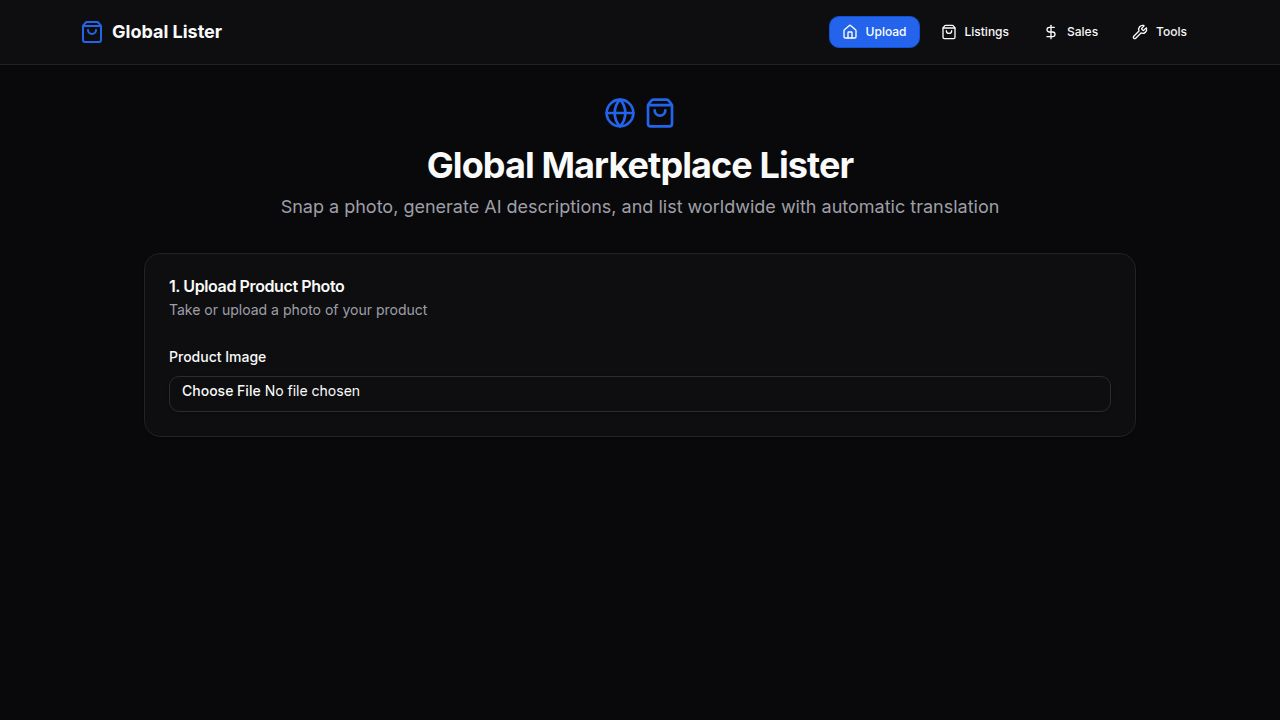
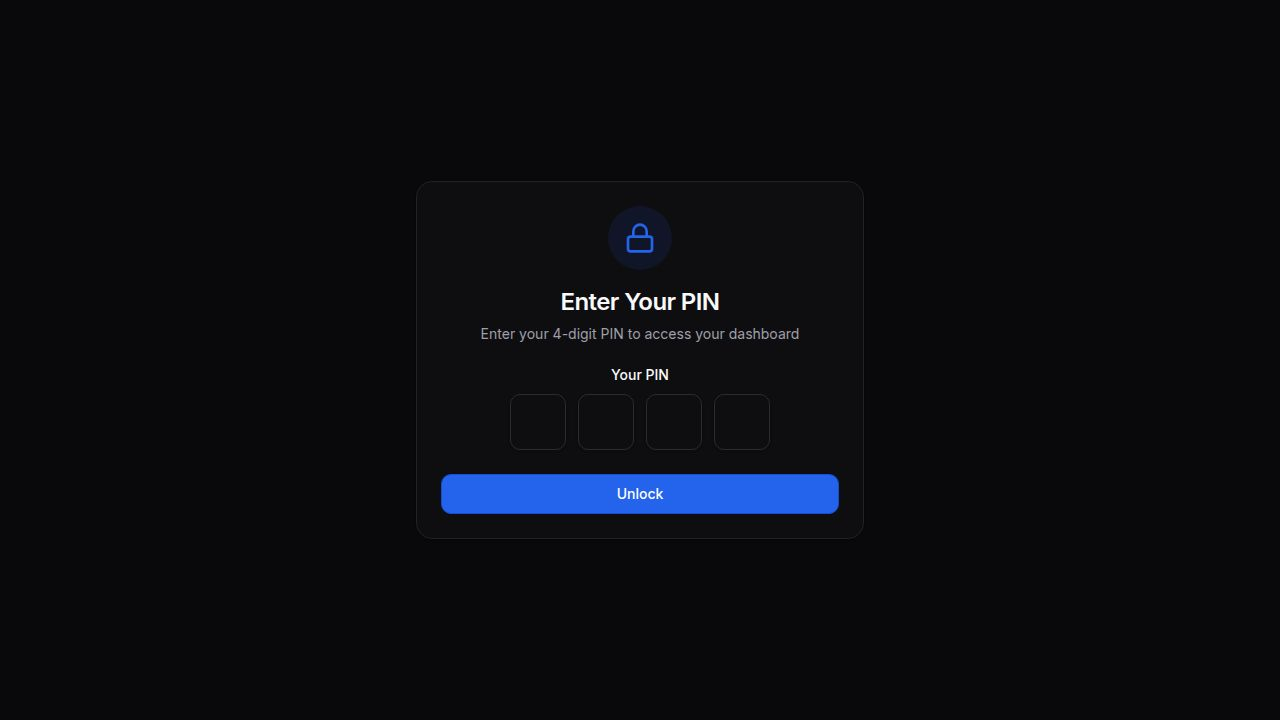
Update service fee to one percent across the application
Adjusted the service fee calculation, display text on the sales page, and Stripe checkout description from 2% to 1% in server/routes.ts and client/src/pages/sales.tsx.

Replit-Commit-Author: Agent
Replit-Commit-Session-Id: 9d29290c-366b-46ec-92f5-10a7a8a73348
Replit-Commit-Checkpoint-Type: full_checkpoint
Replit-Commit-Event-Id: 5599343b-6730-4a7f-8a2c-255fc5ce1c4a
Replit-Commit-Screenshot-Url: https://storage.googleapis.com/screenshot-production-us-central1/77d87017-da7e-4a00-a367-72a0797ac958/9d29290c-366b-46ec-92f5-10a7a8a73348/1jWu3yl
Replit-Helium-Checkpoint-Created: true

diff --git a/client/src/pages/sales.tsx b/client/src/pages/sales.tsx
@@ -108,7 +108,7 @@ export default function Sales() {
             <h1 className="text-4xl font-bold tracking-tight">Sales & Fees</h1>
           </div>
           <p className="text-muted-foreground text-lg">
-            Track revenue and manage your 2% service fees
+            Track revenue and manage your 1% service fees
           </p>
         </div>
 
@@ -132,7 +132,7 @@ export default function Sales() {
           <Card>
             <CardHeader className="pb-3">
               <CardTitle className="text-sm font-medium text-muted-foreground">
-                Unpaid Fees (2%)
+                Unpaid Fees (1%)
               </CardTitle>
             </CardHeader>
             <CardContent>
@@ -241,7 +241,7 @@ export default function Sales() {
                       </div>
                     </div>
                     <div>
-                      <div className="text-sm text-muted-foreground">Our Fee (2%)</div>
+                      <div className="text-sm text-muted-foreground">Our Fee (1%)</div>
                       <div className="text-lg font-semibold mt-1 text-primary">
                         ${parseFloat(sale.ourFee).toFixed(2)}
                       </div>

diff --git a/server/routes.ts b/server/routes.ts
@@ -246,7 +246,7 @@ export async function registerRoutes(
     try {
       const { listingId, saleAmount, saleCurrency, platformFee } = req.body;
 
-      const ourFee = (parseFloat(saleAmount) * 0.02).toFixed(2);
+      const ourFee = (parseFloat(saleAmount) * 0.01).toFixed(2);
 
       const sale = await storage.createSale({
         listingId,
@@ -416,7 +416,7 @@ export async function registerRoutes(
             currency: 'usd',
             product_data: {
               name: `Service Fee - Sale #${saleId}`,
-              description: `2% service fee for your marketplace sale`,
+              description: `1% service fee for your marketplace sale`,
             },
             unit_amount: feeInCents,
           },